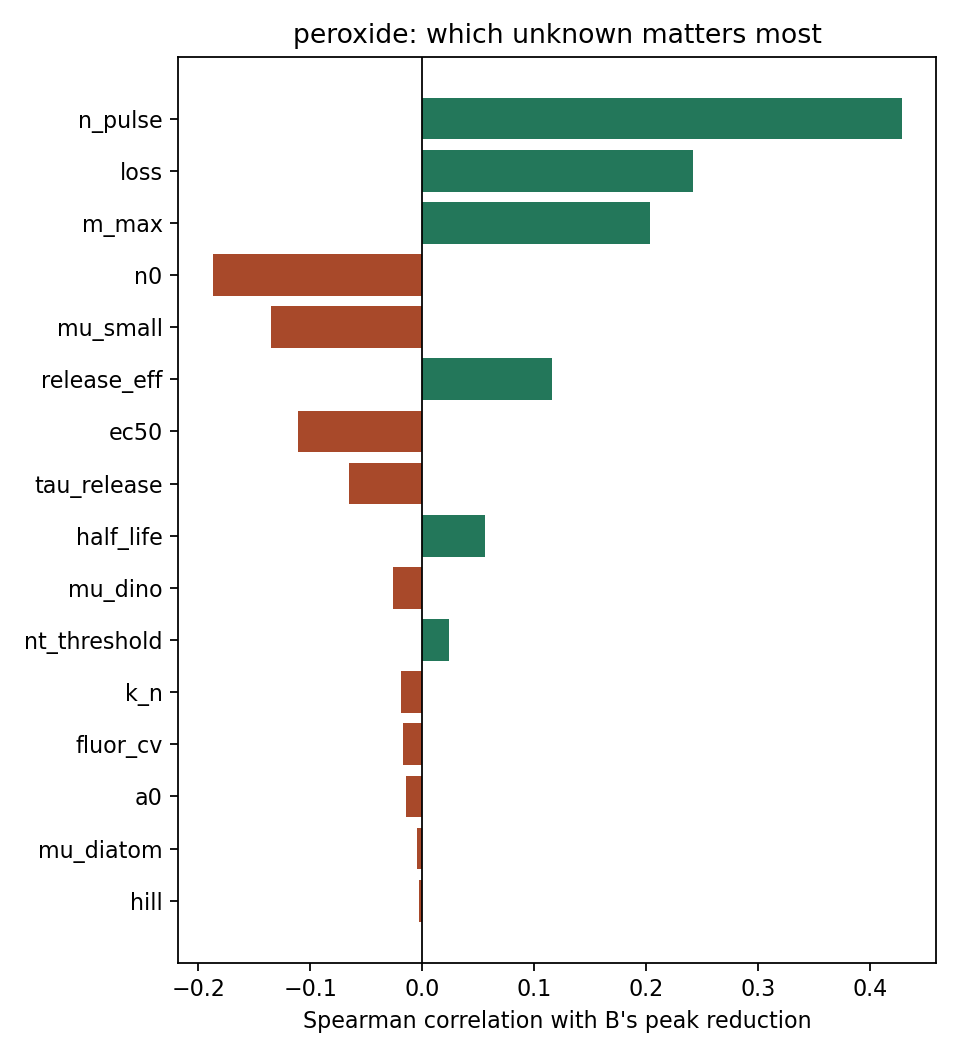
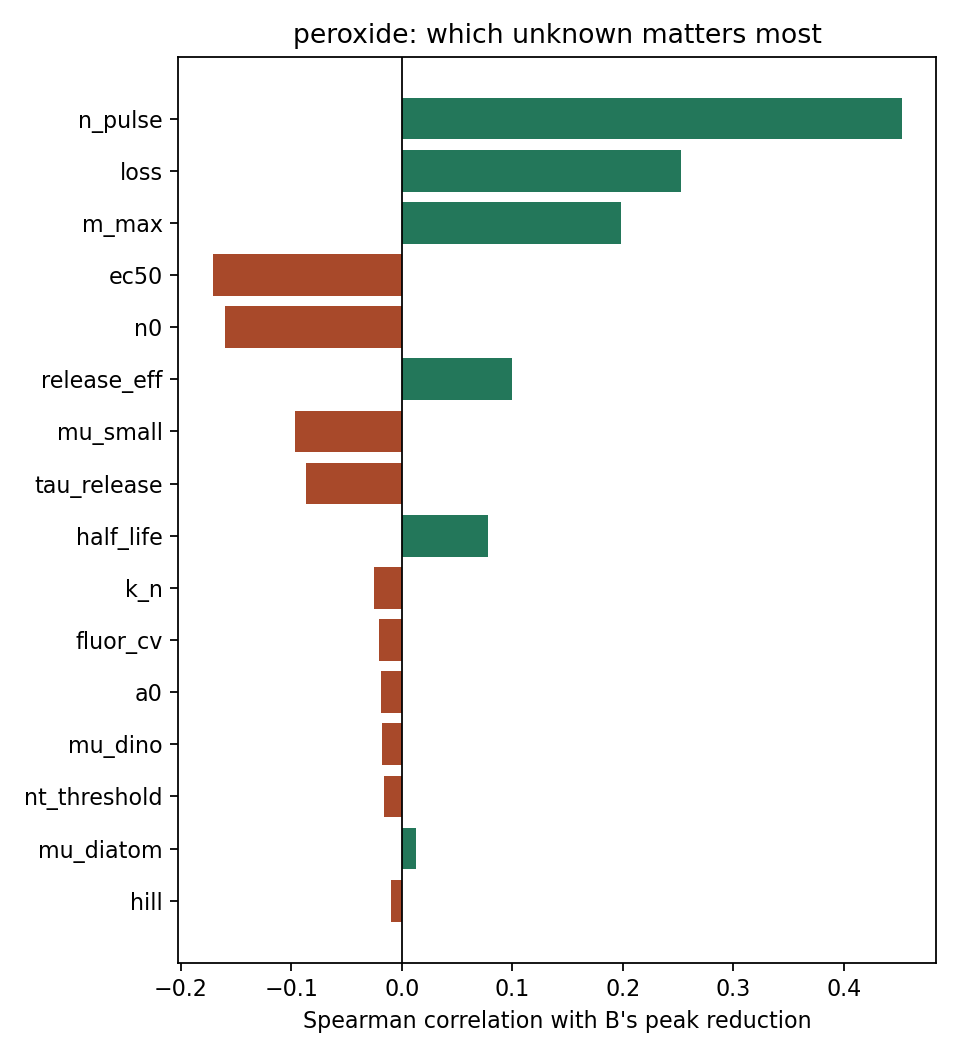
Layer 2 sim: reactive arm C from a pilot bloom run; overshoot check
Arm C now starts at 50% of the expected untreated peak (set by a simulated
pilot bloom run); the old after-the-peak arm is kept as Cl for comparison.
B beats reactive C in 98-100% of runs for every method; a reactive start at
10-20% of peak still does worse than B. Optional floor rule (off by default):
it never fired during treatment, since dips below normal come weeks after OFF
(no nutrient recycling in the model).

Claude-Session: https://claude.ai/code/session_019qugKZoFUV2rvdqeagrEFM

diff --git a/src/sim/method_mc.py b/src/sim/method_mc.py
@@ -9,20 +9,26 @@ paper; tank_model.backtest). Every draw simulates 5 tanks per arm for 56 days:
     Bf   loop, forecast trigger          p >= 0.50 from a persistence forecast of the tank's own
                                          readings (7-day projection of the last 2 days' growth)
     Br   loop, rule trigger              chl up 2 days running and > 2 x warm-up mean
-    C    late treatment                  starts once, the first day chl falls after passing
-                                         2 x warm-up mean (i.e. after the peak)
+    C    reactive treatment              starts once, the first day chl passes 50% of the expected
+                                         untreated peak (C_REACT_FRAC); the expected peak comes from
+                                         a simulated pilot bloom run (PILOT_TANKS untreated tanks
+                                         with the draw's parameters, run before the bench)
     D    false alarm                     no nutrients; loop forced ON on day 21
+    Cl   late treatment (old arm C)      starts once, the first day chl falls after passing
+                                         2 x warm-up mean (i.e. after the peak); kept for comparison
 
 Loop rules are loop_controller.Controller (identical to Layer 1's run_loop). C_ok = 50% of arm
 A's running peak (00_CONTROL_LOOP.md bench rule). Seaweed pulls its panel if pH > 9.0.
-Readings carry fluorometer noise; the controller only sees readings.
+Readings carry fluorometer noise; the controller only sees readings. Optional floor rule (FLOOR_ON,
+off by default): a treated tank reading below FLOOR_FRAC x its warm-up mean is switched OFF.
 
 Pre-registered tests, evaluated per draw on the first n tanks of each arm (n = 3 is the plan):
     H1      mean peak reduction of B vs mean A >= 50%, and B used fewer ON days than C
             (point estimate), and the stricter version with the 95% t-interval lower bound >= 50%
             (t_interval from src/lab/analyze_lab.py; t = 4.30 at n = 3)
     H1a     the first half of H1 alone (>= 50% peak cut), mean and 95% CI versions
-    H1b     B's peak cut beats the late arm C's by 20+ points
+    H1b     B's peak cut beats the reactive arm C's (point estimate; also reported with a 20-point
+            margin, and against the old late arm Cl)
             (The simulation showed that late treatment is short and cheap because the bloom is
              already crashing, so "fewer ON days than C" can fail even when B works.)
     H2      the false-alarm arm D: seaweed never hits the pH safety stop (bubbles add nothing)
@@ -60,7 +66,14 @@ from analyze_lab import t_interval  # noqa: E402
 OUT_DIR, FIG_DIR = "data/sim", "figures/sim"
 DAYS, NUTRIENT_DAY, WARM = 56, 21, (14, 21)
 TANKS = 5                      # per arm (n = 3 is the plan; 4 and 5 for the power check)
-ARMS = ["A", "Bf", "Br", "C", "D"]
+ARMS = ["A", "Bf", "Br", "C", "D", "Cl"]
+C_REACT_FRAC = 0.5             # arm C starts at this share of the expected untreated peak (2026-09-28)
+PILOT_TANKS = 2                # untreated pilot tanks per draw that set the expected peak
+FLOOR_ON = False               # 'don't go below normal' OFF rule (2026-09-28): a treated tank whose
+FLOOR_FRAC = 0.8               # reading falls below 80% of its warm-up mean is switched OFF.
+# Off by default: tested ON, it never fired while a treatment was ON (B's dips below normal come weeks
+# after OFF, because the model has no nutrient recycling from dead cells), and it only cut arm D short
+# on noise. The bench measures overshoot directly (00_CONTROL_LOOP.md, H4).
 FC_SCALE, FC_NOISE = 0.35, 0.5  # forecast emulator: logistic scale and noise (log units)
 BLOOM_MIN = 10.0               # ug/L; the forecast's bloom line is max(10, 2 x warm-up mean)
 ORGANISM = {"seaweed": "diatom", "bubbles": "dino", "peroxide": "small", "curcumin": "dino",
@@ -77,6 +90,27 @@ SWEEP = {                      # (parameter, values, axis label) for the X x dos
 SEED = 42
 
 
+def pilot_run(method, p, rng):
+    """Pilot bloom run (00_CONTROL_LOOP.md): PILOT_TANKS untreated tanks per draw with the draw's
+    parameters. Returns the expected untreated peak reading per draw (mean over its pilot tanks)."""
+    D = len(p["loss"])
+    rep = {k: np.repeat(v, PILOT_TANKS) for k, v in p.items() if np.asarray(v).dtype.kind in "fi"}
+    mu_key = tm.MU_KEY[ORGANISM[method]]
+    rep[mu_key] = rep[mu_key] * (1 + rng.normal(0, rep["tank_cv_mu"]))
+    rep["a0"] = rep["a0"] * (1 + rng.normal(0, 0.1, len(rep["loss"])))
+    tank = tm.TankBatch(rep, method, ORGANISM[method])
+    off = np.zeros(len(rep["loss"]), bool)
+    peak = np.zeros(len(rep["loss"]))
+    for d in range(DAYS):
+        if d == NUTRIENT_DAY:
+            tank.N = tank.N + rep["n_pulse"]
+        chl = tank.step_day(off)
+        meas = chl * (1 + rng.normal(0, rep["fluor_cv"]))
+        if d >= NUTRIENT_DAY:
+            peak = np.maximum(peak, meas)
+    return peak.reshape(D, PILOT_TANKS).mean(axis=1)
+
+
 def run_bench(method, p, rng, x_days=None, keep_curves=False):
     """Simulate every draw in p (dict of arrays, length D) as a full bench run."""
     D = len(p["loss"])
@@ -90,10 +124,12 @@ def run_bench(method, p, rng, x_days=None, keep_curves=False):
     tank = tm.TankBatch(rep, method, ORGANISM[method])
     x = rep["x_days"].astype(int) if x_days is None else np.full(len(arm), int(x_days))
     ctrl = Controller(len(arm), x)
-    is_A, is_Bf, is_Br, is_C, is_D = (arm == i for i in range(5))
+    is_A, is_Bf, is_Br, is_C, is_D, is_Cl = (arm == i for i in range(len(ARMS)))
+    pilot_peak = pilot_run(method, p, rng)[draw]
     hist = np.zeros((DAYS, len(arm)))
     on_hist = np.zeros((DAYS, len(arm)), bool)
     c_started = np.zeros(len(arm), bool)
+    cl_started = np.zeros(len(arm), bool)
     passed = np.zeros(len(arm), bool)
     safety = np.zeros(len(arm), int)
     a_peak = np.zeros(D)
@@ -121,16 +157,21 @@ def run_bench(method, p, rng, x_days=None, keep_curves=False):
         passed |= meas > 2 * warm
         trig = is_Bf & (pf >= T_ON)
         trig |= is_Br & rule_trigger(hist, d, warm)
-        late = is_C & ~c_started & passed & (meas < hist[d - 1])
+        react = is_C & ~c_started & (meas >= C_REACT_FRAC * pilot_peak)
+        trig |= react
+        c_started |= react
+        late = is_Cl & ~cl_started & passed & (meas < hist[d - 1])
         trig |= late
-        c_started |= late
+        cl_started |= late
         trig |= is_D & (d == NUTRIENT_DAY)
         force = np.zeros(len(arm), bool)
         if method == "seaweed":
             force = tank.ph() > tm.PH_LIMIT
         elif method == "peroxide":
             force = tank.C > PEROXIDE_PULL
-        safety += force & ctrl.on
+        floor = FLOOR_ON & (d > NUTRIENT_DAY) & (meas < FLOOR_FRAC * warm)
+        force = force | floor
+        safety += (force & ~floor) & ctrl.on
         on_now = ctrl.step(d, trig, pf, meas, c_ok, force_off=force)
         first_on = np.where((first_on < 0) & on_now, d, first_on)
         on_hist[d] = on_now
@@ -165,12 +206,16 @@ def evaluate(res, D, n=3, b_arm="Bf"):
     for dr in range(D):
         b = by[b_arm].loc[[dr]]
         c = by["C"].loc[[dr]]
+        cl = by["Cl"].loc[[dr]]
         dd = by["D"].loc[[dr]]
         red = 1 - b.peak.values / peak_a[dr]
         m, lo, hi = t_interval(red)
         on_b, on_c = b.on_days.mean(), c.on_days.mean()
         red_c = 1 - c.peak.mean() / peak_a[dr]
+        red_cl = 1 - cl.peak.mean() / peak_a[dr]
         rows.append(dict(draw=dr, red_mean=m, red_lo=lo, red_hi=hi, on_b=on_b, on_c=on_c, red_c=red_c,
+                         red_cl=red_cl, b_gt_c=bool(m > red_c), b_beats_cl=bool(m > red_cl + 0.2),
+                         c_day=c.first_on.mean(), b_day=b.first_on.mean(),
                          h1_point=bool((m >= 0.5) and (on_b < on_c)), h1_ci=bool((lo >= 0.5) and (on_b < on_c)),
                          h1a_point=bool(m >= 0.5), h1a_ci=bool(lo >= 0.5), b_beats_c=bool(m > red_c + 0.2),
                          regrew=bool(np.isfinite(b.regrow.values).any()),
@@ -187,7 +232,10 @@ def summarise(method, variant, ev, ev_by_n, ev_rule):
                p_h1_point_n3=ev.h1_point.mean(), p_h1_ci_n3=ev.h1_ci.mean(),
                median_peak_reduction=ev.red_mean.median(), red_p5=q(ev.red_mean, 5), red_p95=q(ev.red_mean, 95),
                median_on_days_B=ev.on_b.median(), median_on_days_C=ev.on_c.median(),
-               median_late_reduction_C=ev.red_c.median(),
+               median_late_reduction_C=ev.red_c.median(), median_old_late_reduction_Cl=ev.red_cl.median(),
+               p_b_gt_c=ev.b_gt_c.mean(), p_b_beats_cl=ev.b_beats_cl.mean(),
+               median_b_minus_c=(ev.red_mean - ev.red_c).median(),
+               median_c_start_minus_b_start=(ev.c_day - ev.b_day).median(),
                p_h2_pass=ev.h2_pass.mean(), median_on_days_D=ev.on_d.median(),
                p_h1a_point_n3=ev.h1a_point.mean(), p_h1a_ci_n3=ev.h1a_ci.mean(), p_b_beats_c=ev.b_beats_c.mean(),
                share_regrew=ev.regrew.mean(), p_b_safety_stop=(ev.b_safety > 0).mean(),
@@ -268,7 +316,7 @@ def plot_curves(curves):
     for ax in axes.flat[len(curves):]:
         ax.axis("off")
     colors = dict(A="#5A707A", Bf="#23775A", C="#A8492A", D="#1F5FA8")
-    names = {"A": "A untreated", "Bf": "B loop", "C": "C late", "D": "D false alarm"}
+    names = {"A": "A untreated", "Bf": "B loop", "C": "C reactive", "D": "D false alarm"}
     for ax, (method, (res, dr)) in zip(axes.flat, curves.items()):
         arm = np.array(ARMS)[res["arm"]]
         sel = res["draw"] == dr
@@ -342,9 +390,12 @@ def main():
             print(f"  H1a >=50% peak cut, n=3: mean {s['p_h1a_point_n3']:.0%}, 95% CI {s['p_h1a_ci_n3']:.0%}   "
                   f"(n=4: {s['p_h1a_point_n4']:.0%} / {s['p_h1a_ci_n4']:.0%}; "
                   f"n=5: {s['p_h1a_point_n5']:.0%} / {s['p_h1a_ci_n5']:.0%});  "
-                  f"H1b B beats late C by 20+ points: {s['p_b_beats_c']:.0%}")
+                  f"H1b B beats reactive C: {s['p_b_gt_c']:.0%} (by 20+ points: {s['p_b_beats_c']:.0%}; "
+                  f"old late arm by 20+: {s['p_b_beats_cl']:.0%})")
             print(f"  B peak reduction vs A: median {s['median_peak_reduction']:.0%} "
-                  f"[5-95%: {s['red_p5']:.0%}, {s['red_p95']:.0%}];  late arm C: {s['median_late_reduction_C']:.0%}")
+                  f"[5-95%: {s['red_p5']:.0%}, {s['red_p95']:.0%}];  reactive C: {s['median_late_reduction_C']:.0%} "
+                  f"(B - C median {s['median_b_minus_c']:+.0%}; C starts {s['median_c_start_minus_b_start']:.1f} d after B);  "
+                  f"old late arm: {s['median_old_late_reduction_Cl']:.0%}")
             print(f"  ON days: B {s['median_on_days_B']:.0f}, C {s['median_on_days_C']:.0f}, "
                   f"D {s['median_on_days_D']:.0f};  B hit MAX_ON in {s['share_B_maxed']:.0%} of runs;  "
                   f"regrew above C_ok after OFF in {s['share_regrew']:.0%} (median {s['median_regrow_days']:.1f} d);  "

diff --git a/notes/mitigation/LAYER2_SIM_RESULTS.md b/notes/mitigation/LAYER2_SIM_RESULTS.md
@@ -131,3 +131,42 @@ These are predictions to test on the bench, not evidence that a method works.
   - the model has no pseudofaeces and no toxin;
   - regrowth is fed by excreted ammonia;
   - "clearance" stands in for all of the animals' behaviour.
+
+## Re-run with the reactive arm C (2026-09-28)
+
+**What changed:**
+- Arm C now starts the first day chlorophyll passes **50% of the expected untreated peak**. The expected peak comes from a simulated pilot bloom run: 2 untreated tanks per draw with the draw's parameters.
+- The old "after the peak" arm is kept as `Cl` for comparison.
+- H1b is now "B's cut beats C's", also reported with a 20-point margin.
+- The code is in `src/sim/method_mc.py` (`pilot_run`, `C_REACT_FRAC`). Results are 2,000 draws per method, forecast trigger, n = 3; the method rows use their summary dose; shellfish is at 1 tank volume/day.
+
+| | Seaweed | Shellfish (1 vol/day) | Peroxide | Curcumin | Bubbles (responsive sp.) |
+|---|---|---|---|---|---|
+| B peak cut (median) | 75% | 30% | 96% | 92% | 19% |
+| **Reactive C peak cut** | **11%** | **6%** | **25%** | **21%** | **3%** |
+| Old late arm (after the peak) | 1% | 0% | 1% | 4% | 3% |
+| C starts after B by (median) | 4.0 d | 4.0 d | 3.0 d | 8.7 d | 9.7 d |
+| B beats C | 100% | 99% | 100% | 100% | 98% |
+| B beats C by 20+ points | 100% | 62% | 100% | 100% | 39% |
+
+The other numbers (H1a, ON days, harm, H2) match the earlier run within 1-2 points.
+
+**Sensitivity: how early does "reactive" have to be before it catches up?** (300 draws; shellfish stocked at the planned 2 volumes/day)
+
+| C starts at … of the expected peak | 50% | 20% | 10% |
+|---|---|---|---|
+| Seaweed: C cut / B beats C / by 20+ | 10% / 100% / 100% | 33% / 100% / 99% | 52% / 100% / 56% |
+| Shellfish: C cut / B beats C / by 20+ | 9% / 100% / 93% | 34% / 100% / 63% | 29% / 93% / 58% |
+
+**What it means:**
+- The simulated tank bloom goes from warm-up level to peak in about 5 days. A treatment started when the bloom is "visible" (50% of peak) is only ~1 day before the peak, so it can do little. B wins because it starts about 4 days earlier.
+- Even a reactive manager watching closely (starting at 10-20% of peak, 2-3 days after B) gets a smaller cut than B. The gap shrinks as C gets earlier: every day of lead time counts.
+- This is the bench version of the project's claim, and it is no longer a strawman comparison.
+- **The bench test depends on the real bloom speed,** which the pilot bloom run measures. A slower bloom gives the reactive arm more time. Pre-register the 50% start and report the sensitivity.
+
+**Overshoot check (H4, 2026-09-28).**
+- **What the simulation shows:** seaweed and peroxide B tanks fall below 80% of their warm-up level in 91-95% of runs (low point 0.35-0.42× normal). The low comes **weeks after the treatment is OFF** (median day 54-55), never while it's ON.
+- **Why it isn't a real prediction:** the model has no nutrient recycling from dead cells. Treated tanks use up their nutrients, then drift down.
+- **The floor rule:** a "switch OFF below 80% of warm-up" rule (`FLOOR_ON` in `method_mc.py`) was tested. It never fired during treatment, and it only cut the false-alarm arm D short on noise, so it is off by default in the simulation.
+- **Decision:** overshoot is measured on the bench instead (H4 in `00_CONTROL_LOOP.md`).
+- **New caveat:** no nutrient recycling means the model can't predict late regrowth or overshoot.
